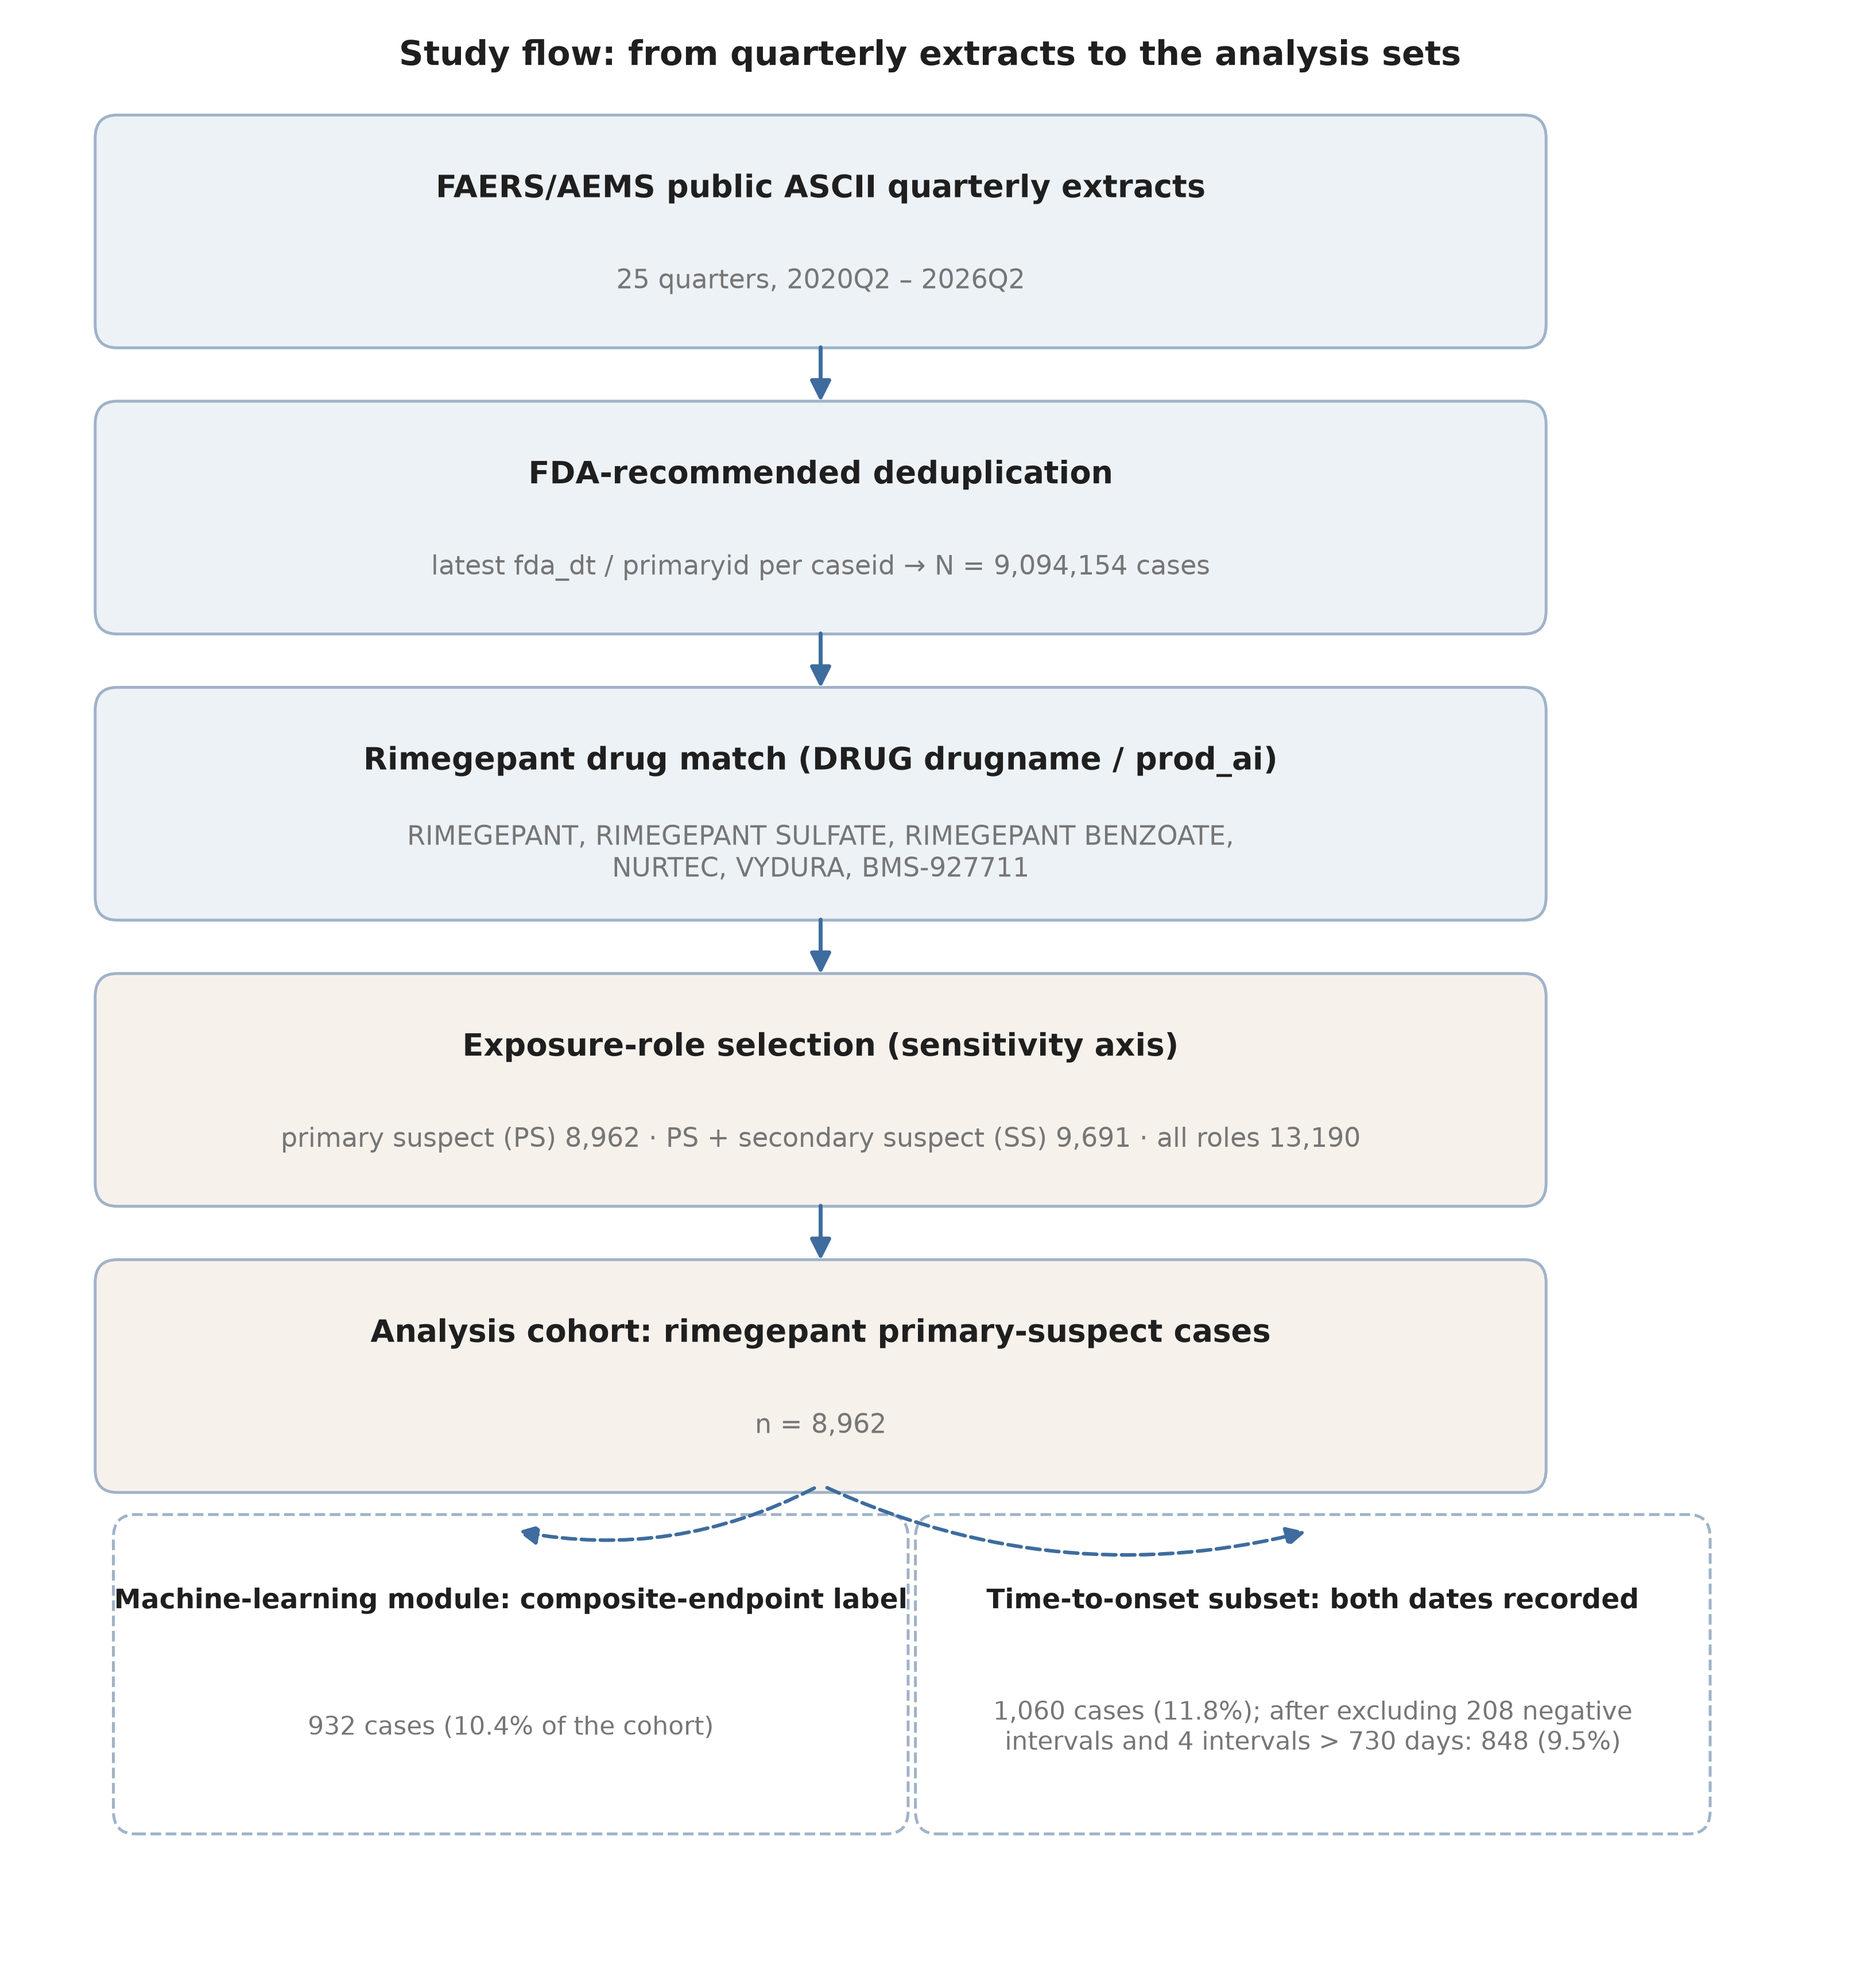
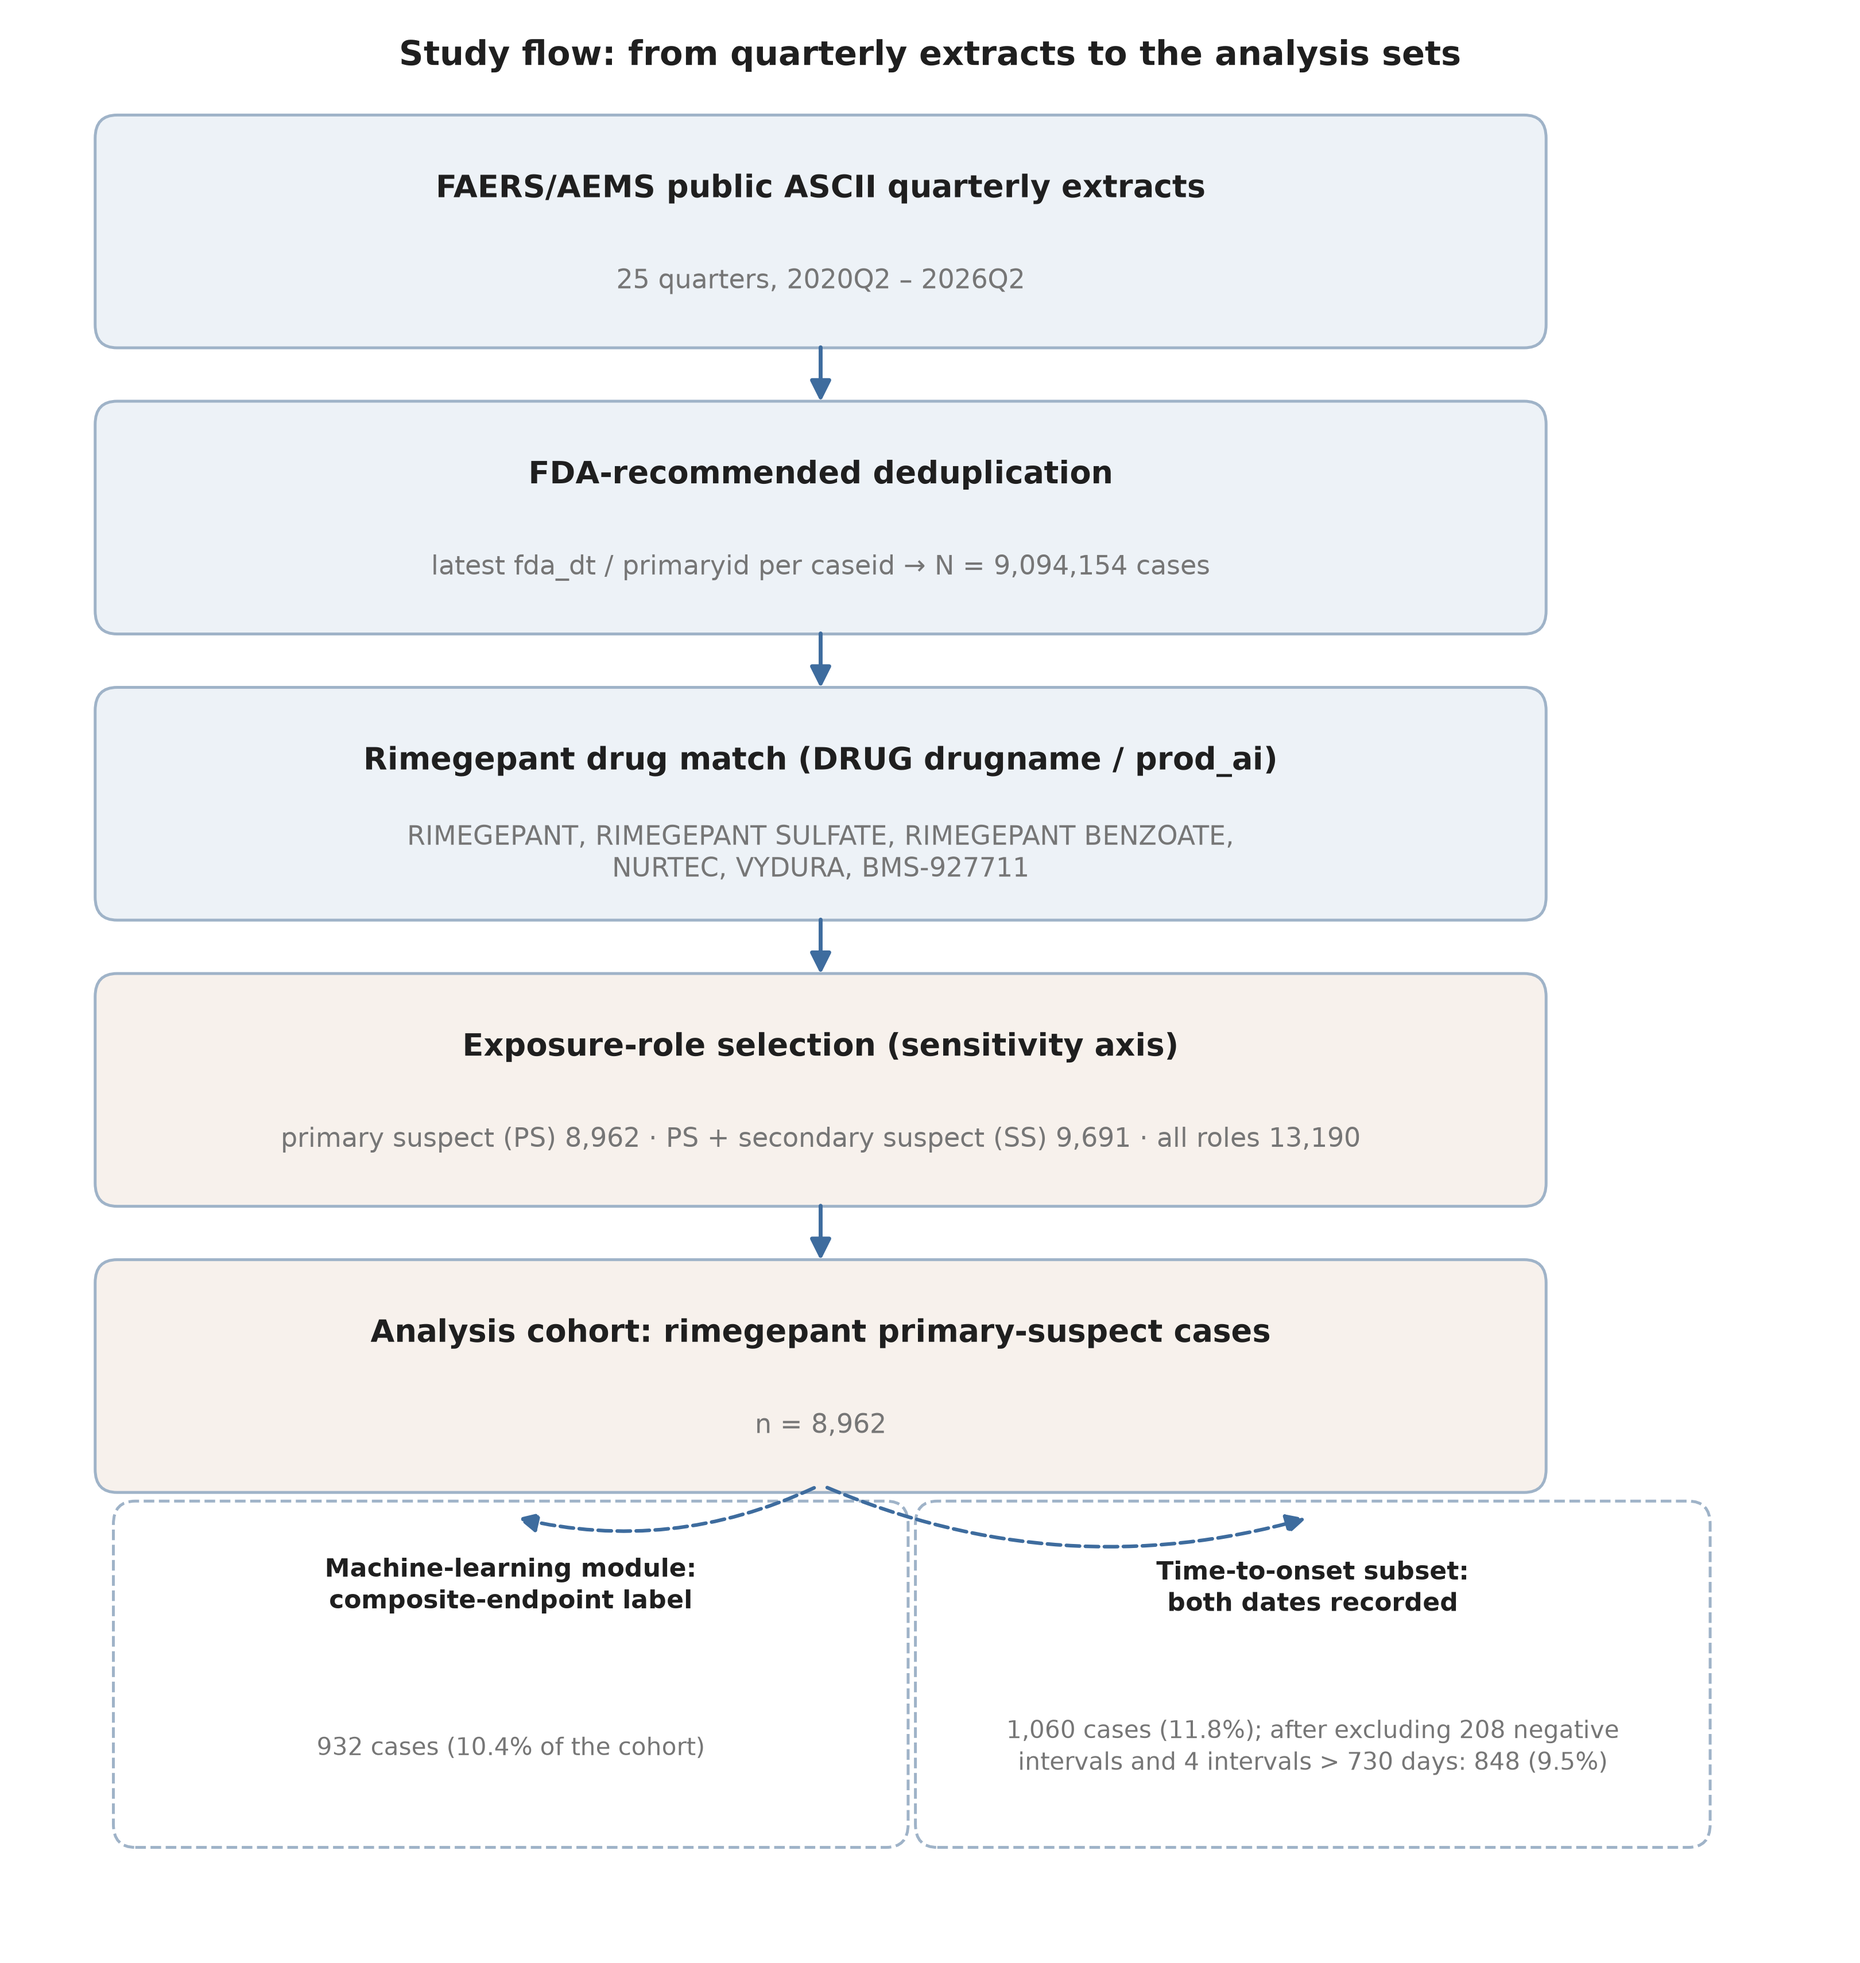
revision4: final pre-submission check (v3 recheck comments)
- TTO immediate-type inference removed from Results 3.1 and Discussion 4.3;
  day-level dates cannot establish latency or an immediate-type mechanism
- Key Point 2 aligned: SYK markedly weaker, BTK PH domain inconclusive,
  neither kinase catalytic domain evaluated
- Figure pipeline re-pointed: package figures copied exclusively from
  figures_r/ (Fig2 clipping was caused by copying a stale render from
  results_label_change/); presubmit now byte-checks Fig1-4 + S1 vs renders
- Fig2 in-figure caption split to two lines; Fig3 title 'top 15 of 21',
  bottom caption re-wrapped (21 non-redundant of 23 primary features)
- Supp Fig S2: dashed module titles split to two lines, smaller size,
  more padding; numbers unchanged
- READUS-PV checklist: items 4b/8a cite Supplementary Figure S2 (was
  'Fig. 4'); opening note refers to 'the submitted manuscript'
- Title reworded (author-approved): '...adverse-event signals associated
  with rimegepant: ...'; Key Point 1 starts 'FAERS reports for rimegepant
  showed...'; cover letter + review packet synced
- Zenodo record verified via API (open access, v1.0.2 full archive);
  README round-4 notes added

diff --git a/tools/build_drugsafety.py b/tools/build_drugsafety.py
@@ -36,21 +36,20 @@ spec = importlib.util.spec_from_file_location("mk", ROOT / "tools/make_submissio
 mk = importlib.util.module_from_spec(spec)
 spec.loader.exec_module(mk)
 
-TITLE = ("Oral and hypersensitivity-spectrum adverse events of rimegepant orally "
-         "disintegrating tablets: a disproportionality analysis of the FDA Adverse Event "
-         "Reporting System (FAERS), 2020\u20132026, with machine-learning, "
-         "network-toxicology and docking follow-up")
+TITLE = ("Oral and hypersensitivity-spectrum adverse-event signals associated with rimegepant: "
+         "a disproportionality analysis of the FDA Adverse Event Reporting System (FAERS), "
+         "2020\u20132026, with machine-learning, network-toxicology and docking follow-up")
 RUNNING_HEAD = "Rimegepant oral/hypersensitivity signals in FAERS: a disproportionality analysis"
 
 KEY_POINTS = [
-    ("In the US adverse event database, rimegepant orally disintegrating tablets generated a "
+    ("In the US adverse event database, FAERS reports for rimegepant showed a "
      "reproducible and internally consistent cluster of oral, pharyngeal and systemic "
      "hypersensitivity reports\u2014swollen tongue, throat swelling and oral paraesthesia among "
      "them\u2014that matches the signals reported in earlier published analyses."),
-    ("Exploratory pathway-level analysis suggests local activation of mast cells and complement "
-     "in the mouth and throat as a hypothesis that still needs experimental testing; docking to "
-     "the tested SYK and BTK domains gave no support for off-target binding, and kinase catalytic "
-     "domains were not evaluated."),
+    ("Exploratory pathway-level analysis suggests local mast-cell and complement involvement "
+     "as a hypothesis requiring experimental testing. Docking showed markedly weaker binding "
+     "at the tested SYK domain, whereas results for the tested BTK PH domain remained "
+     "inconclusive. Neither kinase catalytic domain was evaluated."),
     ("Reports of oral swelling increased after the August 2025 label revision, so some stimulated "
      "reporting cannot be excluded. Characteristics recorded in spontaneous reports cannot identify "
      "which patients are at risk, so prospective treatment registries are needed, and neither label "

diff --git a/tools/make_flow_diagram.py b/tools/make_flow_diagram.py
@@ -40,9 +40,9 @@ BOXES = [
 ]
 
 SIDE = [
-    ("Machine-learning module: composite-endpoint label",
+    ("Machine-learning module:\ncomposite-endpoint label",
      "932 cases (10.4% of the cohort)"),
-    ("Time-to-onset subset: both dates recorded",
+    ("Time-to-onset subset:\nboth dates recorded",
      "1,060 cases (11.8%); after excluding 208 negative\n"
      "intervals and 4 intervals > 730 days: 848 (9.5%)"),
 ]
@@ -78,16 +78,16 @@ bx = [0.44, 0.44]
 branch_y = 0.145
 for i, (title, sub) in enumerate(SIDE):
     bxc = 0.27 if i == 0 else 0.71
-    box = FancyBboxPatch((bxc - 0.21, branch_y - 0.075), 0.42, 0.15,
+    box = FancyBboxPatch((bxc - 0.21, branch_y - 0.082), 0.42, 0.164,
                          boxstyle="round,pad=0.008,rounding_size=0.012",
                          fc="#FFFFFF", ec=EDGE, lw=0.8, ls="--")
     ax.add_patch(box)
-    ax.text(bxc, branch_y + 0.038, title, ha="center", va="center",
-            fontsize=7.6, color=INK, fontweight="bold")
-    ax.text(bxc, branch_y - 0.028, sub, ha="center", va="center",
-            fontsize=7.0, color=MUTED)
+    ax.text(bxc, branch_y + 0.046, title, ha="center", va="center",
+            fontsize=7.0, color=INK, fontweight="bold", linespacing=1.25)
+    ax.text(bxc, branch_y - 0.038, sub, ha="center", va="center",
+            fontsize=6.8, color=MUTED, linespacing=1.3)
     ax.add_patch(FancyArrowPatch((cx, ys[-1] - BH / 2 - 0.004),
-                                 (bxc, branch_y + 0.075),
+                                 (bxc, branch_y + 0.082),
                                  connectionstyle="arc3,rad=0.18" if i == 1
                                  else "arc3,rad=-0.18",
                                  arrowstyle="-|>", mutation_scale=11,

diff --git a/tools/presubmit_check.py b/tools/presubmit_check.py
@@ -164,11 +164,21 @@ with zipfile.ZipFile(zp) as z:
         OKS.append("archive manuscript identical to folder")
         print("[ok  ] zip manuscript == folder manuscript")
 
-# Figure_4 in package == latest 20-40 render?
+# All figures in package == latest figures_r renders (single source of truth)
 def md5(p): return hashlib.md5(Path(p).read_bytes()).hexdigest()[:10]
-f4a, f4b = md5(PKG / "figures" / "Figure_4.png"), md5(ROOT / "figures_r" / "Figure_4.png")
-print(f"[{'ok  ' if f4a == f4b else 'WARN'}] Figure_4.png == latest render ({f4a})")
-if f4a != f4b: WARNS.append("Figure_4 in package differs from figures_r render")
+for _n in (1, 2, 3, 4):
+    _a, _b = md5(PKG / "figures" / f"Figure_{_n}.png"), md5(ROOT / "figures_r" / f"Figure_{_n}.png")
+    print(f"[{'ok  ' if _a == _b else 'WARN'}] Figure_{_n}.png == figures_r render ({_a})")
+    if _a != _b:
+        WARNS.append(f"Figure_{_n} in package differs from figures_r render")
+if (ROOT / "figures_r" / "Supplementary_Figure_S1.png").exists():
+    _s1 = PKG / "Supplementary_Figure_S1.png"      # S1 位于包根目录
+    if not _s1.exists():
+        _s1 = PKG / "supplementary" / "Supplementary_Figure_S1.png"
+    _a, _b = md5(_s1), md5(ROOT / "figures_r" / "Supplementary_Figure_S1.png")
+    print(f"[{'ok  ' if _a == _b else 'WARN'}] Supplementary_Figure_S1.png == figures_r render ({_a})")
+    if _a != _b:
+        WARNS.append("Supplementary_Figure_S1 in package differs from figures_r render")
 
 print()
 print("=" * 78)

diff --git a/tools/make_submission.py b/tools/make_submission.py
@@ -496,11 +496,14 @@ def add_figure_legends(doc):
         p.paragraph_format.line_spacing = 2.0
 
 def copy_figures():
+    # 投稿包图件唯一来源是 R 渲染目录 figures_r/（含 Fig1-4 与补充图 S1）。
+    # 不得从 results_full/、results_label_change/、figures/ 等旧路径复制——
+    # 上一轮 Fig2 裁切复发正是因为从这里拿走了旧渲染。
     figs = {
-        1: ROOT / "results_full/forest_focus.png",
-        2: ROOT / "results_label_change/label_change_trend.png",
-        3: ROOT / "figures/shap_summary.png",
-        4: ROOT / "results/network_tox/figures/network_tox_summary.png",
+        1: ROOT / "figures_r/Figure_1.png",
+        2: ROOT / "figures_r/Figure_2.png",
+        3: ROOT / "figures_r/Figure_3.png",
+        4: ROOT / "figures_r/Figure_4.png",
     }
     for n, src in figs.items():
         dst = FIG / f"Figure_{n}.png"
@@ -509,7 +512,7 @@ def copy_figures():
 
     # ROC/PR 曲线改为补充材料图 S1（正文只留 SHAP）
     SUP.mkdir(parents=True, exist_ok=True)
-    s1 = ROOT / "figures/roc_pr_curves.png"
+    s1 = ROOT / "figures_r/Supplementary_Figure_S1.png"
     if s1.exists():
         shutil.copy2(s1, SUP / "Supplementary_Figure_S1.png")
         print("copied Supplementary_Figure_S1.png <-", s1.name)

diff --git a/tools/build_review_packet.py b/tools/build_review_packet.py
@@ -172,8 +172,8 @@ def main():
     p.paragraph_format.space_after = Pt(14)
 
     sub = doc.add_paragraph()
-    r = sub.add_run("Oral and hypersensitivity-spectrum adverse events of rimegepant orally "
-                    "disintegrating tablets: a disproportionality analysis of the FDA Adverse "
+    r = sub.add_run("Oral and hypersensitivity-spectrum adverse-event signals associated with "
+                    "rimegepant: a disproportionality analysis of the FDA Adverse "
                     "Event Reporting System (FAERS), 2020–2026, with machine-learning, "
                     "network-toxicology and docking follow-up")
     r.font.size = Pt(11)

diff --git a/README.md b/README.md
@@ -4,7 +4,7 @@ A four-layer, fully reproducible Python pipeline for post-marketing safety analy
 
 **Layers:** FAERS disproportionality signal detection → machine-learning reporting-feature profiling → bridged network toxicology → AutoDock Vina molecular docking, plus a pre/post label-revision (notoriety-bias) natural experiment.
 
-Companion manuscript: *Oral and hypersensitivity-spectrum adverse events of rimegepant ODT: a multi-layer pharmacovigilance analysis of FAERS 2020–2026* (under preparation; DOI will be added at submission).
+Companion manuscript: *Oral and hypersensitivity-spectrum adverse-event signals associated with rimegepant: a disproportionality analysis of FAERS 2020–2026* (under preparation; DOI will be added at submission).
 
 > 中文说明见 [README_zh.md](README_zh.md)
 
